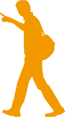
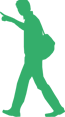
CSS changes

diff --git a/statics/css/style.css b/statics/css/style.css
@@ -83,9 +83,16 @@ body {
   color: #fff; }
 
 .btn-joinus {
-  background-color: #ffd10f;
+  background-color: #2bb36b;
   width: 120px;
-  margin-right: 5px; }
+  margin-right: 5px;
+  color: #fff
+ }
+
+.btn-login{
+background-color: #2bb36b;
+
+}
 
 .hero {
   background-image: url("../images/girl.jpg");
@@ -106,6 +113,12 @@ body {
   border-radius: 0px;
   height: 50px;
   border: none; }
+
+.searchuser i{
+font-size: 2.1em;
+color: #2bb36b;
+
+}
 
 .searchuser {
   max-width: 700px;
@@ -135,7 +148,7 @@ body {
 
 .tourme {
   background-color: transparent;
-  color: #337ab7;
+  color: #2bb36b;
   width: 100%;
   font-family: 'Mrs Sheppards', cursive;
   font-size: 3em;

diff --git a/views/layout.html b/views/layout.html
@@ -45,12 +45,10 @@
           		</ul>
               </div>
                 <ul class="followus">
-                    <li class="followme">follow us:</li>
                     <li><a href="#"><i class="fa fa-twitter"></i></a></li>
                     <li><a href="#"><i class="fa fa-facebook"></i></a></li>
                     <li><a href="#"><i class="fa fa-instagram"></i></a></li>
                     <li><a href="#"><i class="fa fa-flickr"></i></a></li>
-
                 </ul>
 
                 <ul class="navfooter">
